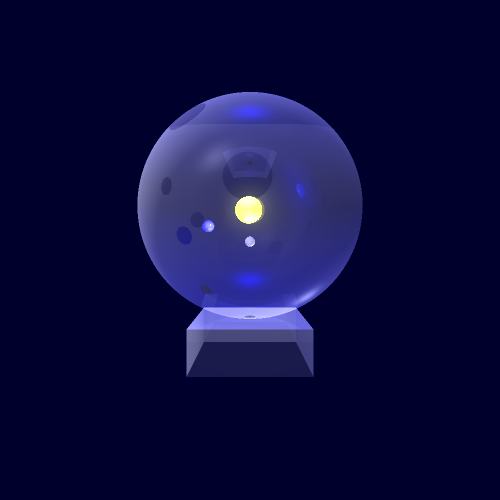
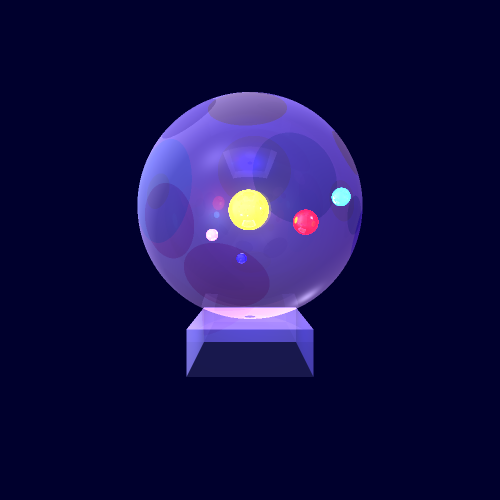
Planets

Changed region(s): [[0.27, 0.18, 0.75, 0.75]]

diff --git a/src/unittests/MiniProjectRender1.java b/src/unittests/MiniProjectRender1.java
@@ -78,15 +78,21 @@ public class MiniProjectRender1 {
                         new Point3D(40, -50, 40))//
                         .setEmission(new Color(24,24,24))
                         .setMaterial(new Material().setKd(0.25).setKs(0.4).setShininess(50).setKr(0.1).setKt(1)),
-        new Sphere(new Point3D(1,30,0),10)//
+        new Sphere(new Point3D(1,30,0),15)//
         .setEmission(new Color(java.awt.Color.YELLOW))//
-                .setMaterial(new Material().setShininess(50).setKd(0.55).setKs(0.4).setKr(0.4).setKt(0.4)),
-                new Sphere(new Point3D(35,20,30),5)//
+                .setMaterial(new Material().setShininess(50).setKr(0.4).setKt(0.4)),
+                new Sphere(new Point3D(25,10,-30),4)//
+                        .setEmission(new Color(219,95,194))//
+                        .setMaterial(new Material().setShininess(50).setKr(0.4).setKt(0.4)),
+               new Sphere(new Point3D(5,-5,-50),3)//
                         .setEmission(new Color(java.awt.Color.BLUE))//
-                        .setMaterial(new Material().setShininess(50).setKd(0.55).setKs(0.4).setKr(0.4).setKt(0.4)),
-               new Sphere(new Point3D(0,5,-50),3)//
-                        .setEmission(new Color(java.awt.Color.DARK_GRAY))//
-                        .setMaterial(new Material().setShininess(50).setKd(0.55).setKs(0.4).setKr(0.4).setKt(0.4)));
+                        .setMaterial(new Material().setShininess(50).setKr(0.4).setKt(0.4)),
+                new Sphere(new Point3D(-40,20,-10),9)//
+                        .setEmission(new Color(java.awt.Color.RED))//
+                        .setMaterial(new Material().setShininess(50).setKr(0.4).setKt(0.4)),
+                new Sphere(new Point3D(-60,35,-30),6)//
+                        .setEmission(new Color(45,221,222))//
+                        .setMaterial(new Material().setKr(0.4).setKt(0.4 )));
 
 
 
@@ -99,15 +105,21 @@ public class MiniProjectRender1 {
 
 
       scene.lights.add( //
-               new PointLight(new Color(java.awt.Color.YELLOW),  new Point3D(0, 30, 0))//
+               new PointLight(new Color(java.awt.Color.YELLOW),  new Point3D(1, 30, 0))//
                  .setKl(1E-5).setKq(1.5E-7));
         scene.lights.add( //
-                new PointLight(new Color(java.awt.Color.BLUE),  new Point3D(35, 20, 30))//
+                new PointLight(new Color(219,95,194),  new Point3D(25,10,-30))//
                         .setKl(1E-5).setKq(1.5E-7));
         scene.lights.add( //
-                new PointLight(new Color(java.awt.Color.DARK_GRAY),  new Point3D(0,0,-50))//
+                new PointLight(new Color(java.awt.Color.BLUE),  new Point3D(5,-5,-50))//
                         .setKl(1E-5).setKq(1.5E-7));
-        scene.lights.add(new PointLight(new Color(java.awt.Color.BLUE),new Point3D(0,1000,0)));
+        scene.lights.add( //
+                new PointLight(new Color(java.awt.Color.RED),  new Point3D(-40,20,-10))//
+                        .setKl(1E-5).setKq(1.5E-7));
+        scene.lights.add( //
+                new PointLight(new Color(45,221,222),  new Point3D(-60,35,-30))//
+                        .setKl(1E-5).setKq(1.5E-7));
+        scene.lights.add(new PointLight(new Color(java.awt.Color.BLUE),new Point3D(0,-50,0)));
 
 
         Render render = new Render() //
